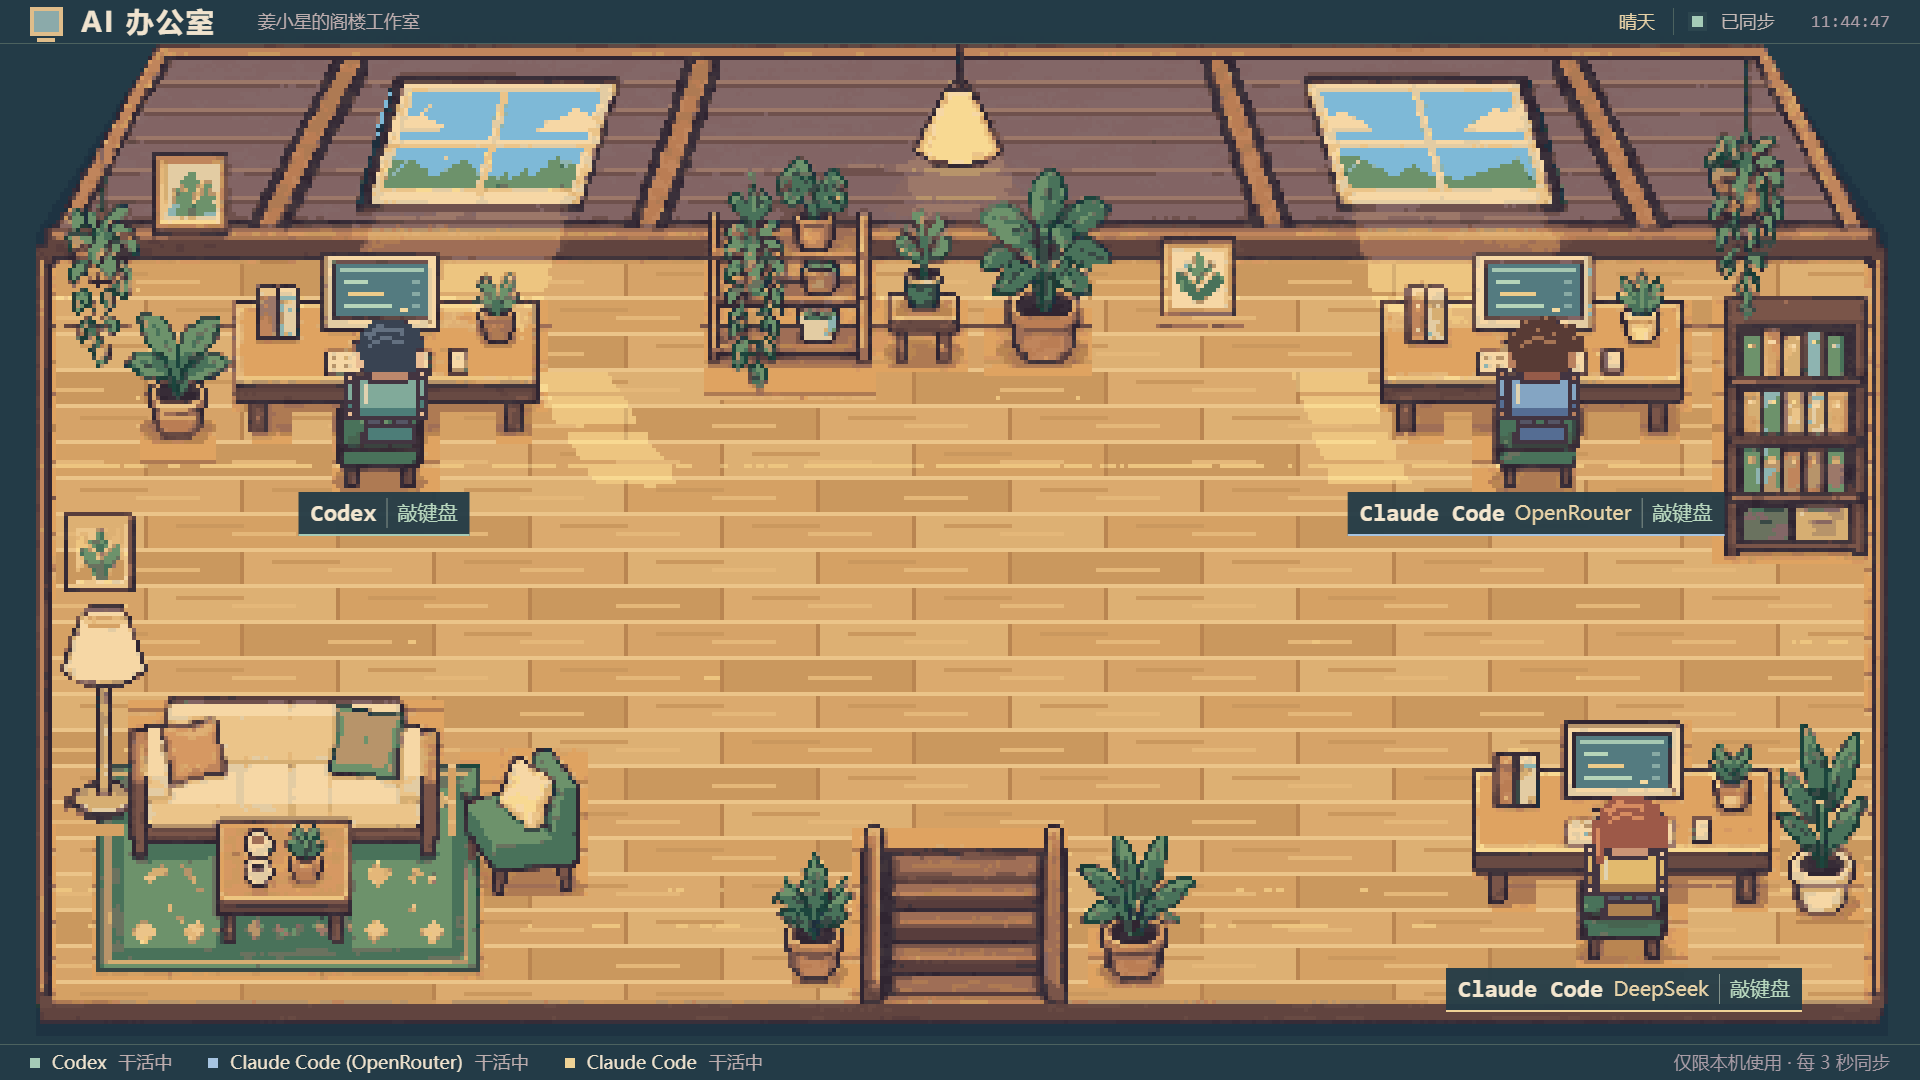
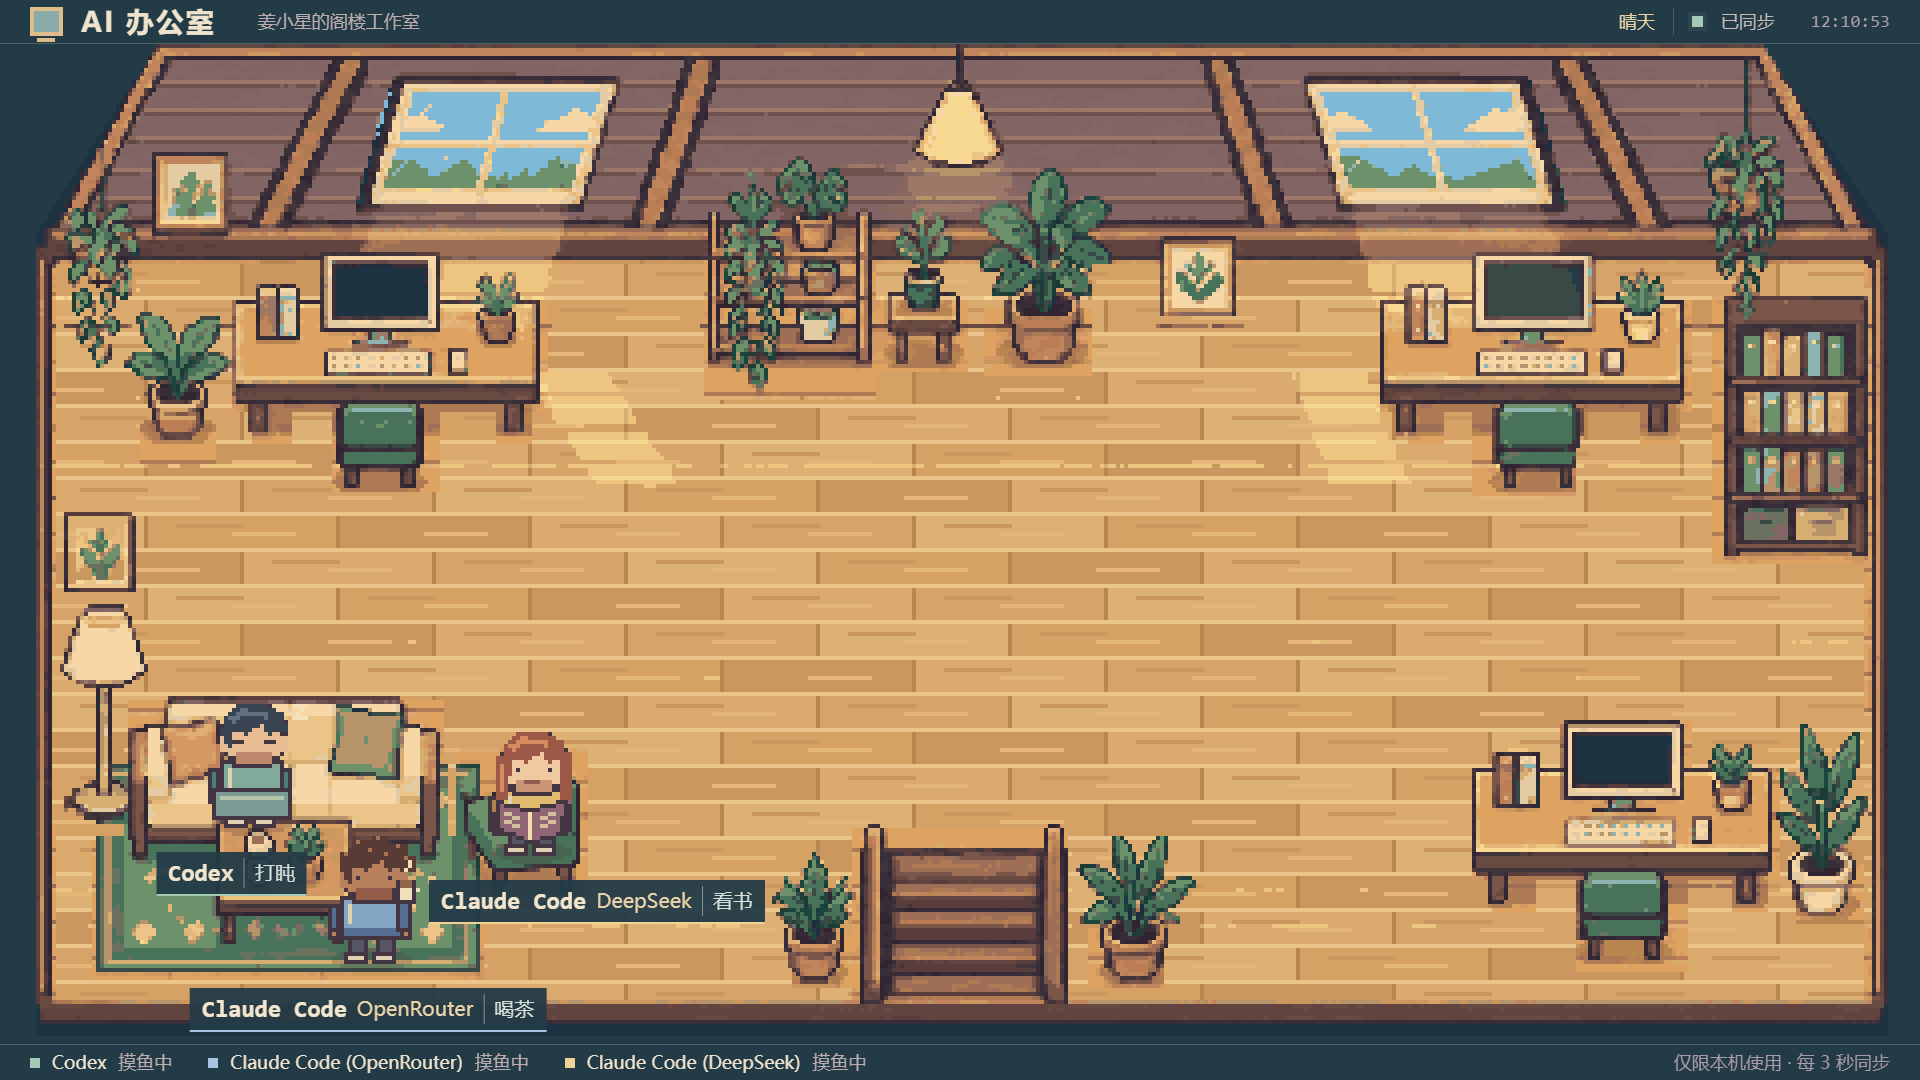
支持按工具配置自动生成六人工位与角色
由状态接口动态分配人物、工位和标签，保留原三人位置与外观，支持六套动画并为超限工具提供底栏状态。补充真实配置重启截图、动态容量与小屏验收，延长冷启动状态请求等待时间并更新添加工具说明。

diff --git a/static/office.js b/static/office.js
@@ -9,16 +9,13 @@
   const wrap = document.getElementById('wrap');
   const labels = document.getElementById('labels');
   const notice = document.getElementById('notice');
-  const DESKS = [
-    { id: 'codex', name: 'Codex', sprite: 'moss', color: '#a5cbb7' },
-    { id: 'openrouter', name: 'Claude Code', subtitle: 'OpenRouter', rosterName: 'Claude Code (OpenRouter)', sprite: 'sky', color: '#a6c4e1' },
-    { id: 'claude-code', name: 'Claude Code', subtitle: 'DeepSeek', sprite: 'sun', color: '#efd296' },
-  ];
+  // Geometry is capacity, not a tool list. Existing tools retain their original seats/looks.
+  const HOMES = { codex: 0, openrouter: 1, 'claude-code': 2 };
+  const CAPACITY = 6, IDLE_SLOTS = [0, 2, 4, 1, 3, 5];
+  const COLORS = ['#a5cbb7', '#a6c4e1', '#efd296', '#b39ac4', '#c5838b', '#9cb47a'];
   const ACTIVITIES = { sleep: '打盹', read: '看书', tea: '喝茶', type: '敲键盘', walk: '走动' };
-  const actors = DESKS.map((d, i) => ({ ...d, index: i, x: 0, y: 0, mode: 'idle', dir: 0,
-    requested: null, route: [], distance: 0, frame: 0, phase: i * 1.3,
-    idleSlot: i * 2, idleTime: 14 + i * 2, idleChanges: 0,
-  }));
+  const actors = [];
+  let tools = [], residents = [], overflowNotice = '';
   const ROOM = { w: 480, h: 270 };
   let atlas, background, metadata, scene, weather, layout, initialized = false, lastTime = 0, clock = 0;
   let latest = null, polls = 0, connected = false, polling = false;
@@ -32,14 +29,20 @@
   }
   function roomLayout() {
     // Chairs, monitor interiors and obstacles are measured on attic-bg-2.png / 4.
-    // All furniture is already baked into the approved image: never draw it twice.
+    // The first three stations are baked in; only occupied extra stations are drawn.
+    const slots = [
+      { seat: { x: 96, y: 118 }, screen: { x: 84, y: 66, w: 23, h: 13 } },
+      { seat: { x: 384, y: 118 }, screen: { x: 372, y: 66, w: 23, h: 13 } },
+      { seat: { x: 406, y: 237 }, screen: { x: 394, y: 184, w: 23, h: 13 } },
+      ...[176, 260, 344].map(x => ({ seat: { x, y: 179 },
+        screen: { x: x - 11, y: 126, w: 23, h: 13 },
+        furniture: { x: x - 39, y: 122, w: 78, h: 62 },
+        block: { x: x - 39, y: 133, w: 78, h: 34 } })),
+    ];
+    const desks = actors.map(a => ({ ...slots[a.slot], id: a.id, slot: a.slot }));
     return {
       ...ROOM,
-      desks: [
-        { id: 'codex', seat: { x: 96, y: 118 }, screen: { x: 84, y: 66, w: 23, h: 13 } },
-        { id: 'openrouter', seat: { x: 384, y: 118 }, screen: { x: 372, y: 66, w: 23, h: 13 } },
-        { id: 'claude-code', seat: { x: 406, y: 237 }, screen: { x: 394, y: 184, w: 23, h: 13 } },
-      ],
+      desks,
       blocks: [
         { x: 58, y: 77, w: 77, h: 27 },
         { x: 345, y: 77, w: 77, h: 27 },
@@ -52,11 +55,14 @@
         { x: 217, y: 219, w: 49, h: 35 },
         { x: 274, y: 230, w: 20, h: 15 },
         { x: 446, y: 207, w: 20, h: 22 },
+        ...desks.filter(d => d.block).map(d => d.block),
       ],
       spots: [
-        { x: 62, y: 208, action: 'sleep' }, { x: 94, y: 208, action: 'sleep' },
+        { x: 62, y: 208, action: 'sleep' }, { x: 94, y: 202, action: 'sleep' },
         { x: 92, y: 242, action: 'tea' }, { x: 174, y: 225, action: 'tea' },
         { x: 132, y: 215, action: 'read' }, { x: 184, y: 184, action: 'read' },
+        { x: 310, y: 244, action: 'read' }, { x: 350, y: 210, action: 'tea' },
+        { x: 42, y: 148, action: 'tea' },
       ],
     };
   }
@@ -65,7 +71,43 @@
     const c=scene.getContext('2d');c.imageSmoothingEnabled=false;
     // The supplied PNG is an exact 4x nearest-neighbor enlargement of this grid.
     c.drawImage(background,0,0,ROOM.w,ROOM.h);
+    for(const d of layout.desks)if(d.furniture) {
+      sprite('chair',d.seat.x-13,d.seat.y-22,c);
+      sprite('desk',d.furniture.x,d.furniture.y,c);
+    }
     weather=AtticWeather.create(scene);
+  }
+  function syncTools(incoming) {
+    tools=incoming.map(t=>({...t}));
+    const visible=tools.slice(0,CAPACITY),used=new Set();
+    // Reserve resident identities before assigning new tools, even if config is reordered.
+    const slots=new Map(visible.filter(t=>Object.hasOwn(HOMES,t.id)).map(t=>[t.id,HOMES[t.id]]));
+    slots.forEach(slot=>used.add(slot));
+    for(const t of visible)if(!slots.has(t.id)) {
+      const slot=Array.from({length:CAPACITY},(_,i)=>i).find(i=>!used.has(i));
+      slots.set(t.id,slot);used.add(slot);
+    }
+    const signature=visible.map(t=>JSON.stringify([t.id,t.name,slots.get(t.id)])).join('|');
+    if(signature!==actors.signature) {
+      const previous=new Map(actors.map(a=>[a.id,a]));
+      actors.splice(0,actors.length,...visible.map((t,index)=>{
+        const slot=slots.get(t.id),look=residents[slot],old=previous.get(t.id);
+        const parts=(t.name||t.id).match(/^(.*?)\s*[（(]([^()（）]+)[）)]$/);
+        const identity={id:t.id,name:parts?parts[1]:(t.name||t.id),subtitle:parts?.[2],
+          rosterName:t.name||t.id,index,slot,sprite:look.id,color:COLORS[slot]};
+        if(old?.slot===slot)return Object.assign(old,identity);
+        return {...identity,x:0,y:0,mode:'idle',dir:0,requested:null,route:[],distance:0,frame:0,
+          phase:slot*1.3,idleSlot:IDLE_SLOTS[slot],idleTime:14+slot*2,idleChanges:0};
+      }));
+      actors.signature=signature;layout={...layout,...roomLayout()};buildScene();
+      for(const a of actors)if(a.requested===null) {
+        const p=nearestFree(destination(a));a.x=p.x;a.y=p.y;
+      }
+      createLabels();
+    }
+    const excess=tools.slice(CAPACITY).map(t=>t.id).join(',');
+    if(excess&&excess!==overflowNotice)console.warn(`AI 办公室最多显示 ${CAPACITY} 人；其余工具仅在底栏显示：${excess}`);
+    overflowNotice=excess;
   }
   function walkable(x,y) {
     // Routes may run along a solid edge; discard floating-point movement noise.
@@ -114,7 +156,9 @@
   }
   function chooseLeisure(a) {
     const taken=new Set(actors.filter(other=>other!==a&&other.requested==='idle').map(other=>other.idleSlot));
-    const choices=layout.spots.map((p,i)=>({p,i})).filter(({p,i})=>!taken.has(i)&&p.action!==layout.spots[a.idleSlot].action&&walkable(p.x,p.y));
+    const choices=layout.spots.map((p,i)=>({p,i})).filter(({p,i})=>!taken.has(i)&&p.action!==layout.spots[a.idleSlot].action&&walkable(p.x,p.y)&&
+      !actors.some(other=>other!==a&&other.requested==='idle'&&
+        Math.abs(p.x-layout.spots[other.idleSlot].x)<28&&Math.abs(p.y-layout.spots[other.idleSlot].y)<38));
     if(!choices.length){a.idleTime=4;return;}
     a.idleSlot=choices[Math.floor(Math.random()*choices.length)].i;a.idleChanges++;
     go(a,destination(a),destination(a).action);
@@ -195,9 +239,11 @@
       const clampX=x=>Math.max(6,Math.min(ww-p.w-6,x));
       const x=clampX(p.cx-p.w/2);
       const desired=Math.min(bottom-p.h,p.y);
-      const obstacles=[...bodies,...placed];
-      const ys=[desired,...bodies.flatMap(q=>[q.y+q.h+6,q.y-p.h-6]),
-        ...placed.flatMap(q=>[q.y+q.h+6,q.y-p.h-6])];
+      const furniture=layout.desks.filter(d=>d.furniture).map(d=>({
+        x:layout.ox+d.furniture.x*scale,y:layout.oy+d.furniture.y*scale,
+        w:d.furniture.w*scale,h:d.furniture.h*scale}));
+      const obstacles=[...bodies,...furniture,...placed];
+      const ys=[desired,...obstacles.flatMap(q=>[q.y+q.h+6,q.y-p.h-6])];
       const xs=[x,...obstacles.flatMap(q=>[clampX(q.x-p.w-6),clampX(q.x+q.w+6)])];
       const free=xs.flatMap(x=>ys.map(y=>({x,y,w:p.w,h:p.h}))).filter(r=>r.y>=top&&r.y+r.h<=bottom&&
         !obstacles.some(q=>overlaps(r,q)));
@@ -227,8 +273,10 @@
     updateLabels();requestAnimationFrame(render);
   }
   function createLabels() {
+    labels.replaceChildren();
     for(const a of actors) {
       const el=document.createElement('div');el.className='nameplate';el.style.setProperty('--agent-color',a.color);
+      el.title=a.rosterName;
       const name=document.createElement('strong');name.textContent=a.name;
       el.append(name);
       if(a.subtitle){const sub=document.createElement('small');sub.textContent=a.subtitle;el.append(sub);}
@@ -236,23 +284,30 @@
     }
   }
   function updateRoster() {
-    const roster=document.getElementById('roster');roster.replaceChildren();
-    for(const a of actors) {
-      const el=document.createElement('span');el.className='agent-status';el.style.setProperty('--agent-color',a.color);
+    const roster=document.getElementById('roster'),scroll=roster.scrollLeft;roster.replaceChildren();
+    roster.classList.toggle('many-tools',tools.length>3);
+    for(const [i,t] of tools.entries()) {
+      const a=actors.find(a=>a.id===t.id),color=a?.color||residents[i%residents.length].shirt;
+      const el=document.createElement('span');el.className='agent-status';
       const dot=document.createElement('i'),name=document.createElement('span'),state=document.createElement('em');
-      name.textContent=a.rosterName||a.name;state.textContent=a.requested===null?'连接中':a.requested==='working'?'干活中':'摸鱼中';
+      el.style.setProperty('--agent-color',color);
+      name.textContent=t.name||t.id;state.textContent=t.status==='working'?'干活中':'摸鱼中';
       el.append(dot,name,state);roster.append(el);
     }
-    canvas.setAttribute('aria-label',`${weather?.snapshot().name||''}阁楼；`+actors.map(a=>`${a.name}${a.subtitle||''}：${a.requested==='working'?'干活中':'摸鱼中'}`).join('；'));
+    roster.scrollLeft=scroll;
+    canvas.setAttribute('aria-label',`${weather?.snapshot().name||''}阁楼；`+tools.map(t=>`${t.name||t.id}：${t.status==='working'?'干活中':'摸鱼中'}`).join('；'));
   }
   async function poll() {
     if(polling)return;polling=true;
     try {
-      const response=await fetch('api/status',{cache:'no-store',signal:AbortSignal.timeout(2500)});
+      // A cold Windows process snapshot can take several seconds after a restart.
+      // Keep one request in flight so short abort/retry cycles cannot pile up scans.
+      const response=await fetch('api/status',{cache:'no-store',signal:AbortSignal.timeout(15000)});
       if(!response.ok)throw new Error(`HTTP ${response.status}`);
       const data=await response.json();
       if(!Array.isArray(data.agents)||!Number.isFinite(data.ts))throw new Error('Invalid status response');
       latest=data;polls++;connected=true;
+      syncTools(data.agents);
       for(const a of actors) {
         const status=data.agents.find(s=>s.id===a.id)?.status;
         if(status!=='working'&&status!=='idle')continue;
@@ -273,8 +328,8 @@
     snapshot:()=>({ready:initialized,connected,polls,clock,zoom:layout?.zoom,width:layout?.w,height:layout?.h,
       sample:layout?.sample,pixelScale:layout?.pixelScale,ox:layout?.ox,oy:layout?.oy,
       background:background?.getAttribute('src'),smoothing:ctx.imageSmoothingEnabled,
-      weather:weather?.snapshot(),
-      actors:actors.map(a=>({id:a.id,x:a.x,y:a.y,mode:a.mode,frame:a.frame,dir:a.dir,requested:a.requested,
+      weather:weather?.snapshot(),capacity:CAPACITY,tools:tools.map(t=>({...t})),
+      actors:actors.map(a=>({id:a.id,name:a.name,sprite:a.sprite,slot:a.slot,x:a.x,y:a.y,mode:a.mode,frame:a.frame,dir:a.dir,requested:a.requested,
         idleSlot:a.idleSlot,idleChanges:a.idleChanges,route:a.route.map(p=>({...p})),
         target:initialized?destination(a):null,walkable:initialized?walkable(a.x,a.y):false,
         monitorOn:a.mode==='type'&&a.requested==='working'})),
@@ -286,9 +341,11 @@
     try {
       const image=new Image();image.src='static/assets/office-atlas.png';
       const room=new Image();room.src='static/assets/attic-bg-2.png';
-      const [,,data]=await Promise.all([image.decode(),room.decode(),fetch('static/assets/office-atlas.json').then(r=>{if(!r.ok)throw new Error('Atlas missing');return r.json();})]);
-      atlas=image;background=room;metadata=data;createLabels();fit();updateRoster();document.getElementById('loading').hidden=true;
-      requestAnimationFrame(render);poll();setInterval(poll,3000);new ResizeObserver(fit).observe(wrap);
+      const json=url=>fetch(url).then(r=>{if(!r.ok)throw new Error(`Missing ${url}`);return r.json();});
+      const [,,data,looks]=await Promise.all([image.decode(),room.decode(),json('static/assets/office-atlas.json'),json('static/assets/residents.json')]);
+      atlas=image;background=room;metadata=data;residents=looks;fit();
+      await poll();updateRoster();document.getElementById('loading').hidden=true;
+      requestAnimationFrame(render);setInterval(poll,3000);new ResizeObserver(fit).observe(wrap);
       document.addEventListener('visibilitychange',()=>{lastTime=0;if(!document.hidden){weather.update();poll();}});
     } catch(error) {document.getElementById('loading').textContent='素材加载失败，请刷新页面';console.error(error);}
   }

diff --git a/static/office.css b/static/office.css
@@ -17,25 +17,26 @@ h1 { margin: 0; font-size: 28px; line-height: 36px; font-weight: 700; white-spac
 #wrap { position: absolute; inset: 0; min-height: 0; overflow: hidden; background: #233b47; }
 #game { display: block; image-rendering: pixelated; image-rendering: crisp-edges; position: absolute; }
 #labels { position: absolute; inset: 0; pointer-events: none; }
-.nameplate { position: absolute; transform: translateX(-50%); display: flex; align-items: center; gap: 10px; padding: 6px 12px; color: #f3e6cf; font-size: 22px; line-height: 30px; white-space: nowrap; background: #233b47f2; border-bottom: 2px solid var(--agent-color); }
+.nameplate { position: absolute; transform: translateX(-50%); display: flex; align-items: center; gap: 10px; padding: 6px 12px; max-width: calc(100% - 12px); color: #f3e6cf; font-size: 22px; line-height: 30px; white-space: nowrap; background: #233b47f2; border-bottom: 2px solid var(--agent-color); }
+.nameplate strong, .nameplate small { min-width: 0; overflow: hidden; text-overflow: ellipsis; }
 .nameplate strong { font-family: Consolas, 'Microsoft YaHei', monospace; font-size: 24px; }
 .nameplate small { color: #e7d2a7; font-size: 20px; }
-.nameplate span { font-size: 20px; color: #d5dfd9; padding-left: 10px; border-left: 1px solid #84938b; }
+.nameplate span { font-size: 20px; color: #d5dfd9; padding-left: 10px; border-left: 1px solid #84938b; flex-shrink: 0; }
 .nameplate.working span { color: #b8d7be; }
 #loading, #notice { position: absolute; left: 50%; transform: translateX(-50%); padding: 10px 16px; background: #3b3445; border: 1px solid #b39b7b; font-size: 12px; z-index: 2; }
 #loading { top: 44%; }
 #notice { bottom: 48px; max-width: calc(100% - 24px); color: #f3cb9f; text-align: center; }
 [hidden] { display: none !important; }
 #footer { position: absolute; inset: auto 0 0; min-height: 36px; z-index: 2; display: flex; align-items: center; justify-content: space-between; padding: 0 30px; gap: 18px; background: #233b47f2; border-top: 1px solid #4c625f; }
-#roster { display: flex; gap: 36px; min-width: 0; }
-.agent-status { display: inline-flex; gap: 12px; align-items: center; font-size: 18px; line-height: 1.5; white-space: nowrap; }
+#roster { display: flex; gap: 36px; min-width: 0; overflow-x: auto; scrollbar-width: thin; }
+.agent-status { display: inline-flex; flex-shrink: 0; gap: 12px; align-items: center; font-size: 18px; line-height: 1.5; white-space: nowrap; }
 .agent-status i { width: 10px; height: 10px; flex-shrink: 0; background: var(--agent-color); }
 .agent-status em { font-style: normal; color: #bdadae; font-size: 18px; }
-.local { color: #a99ca6; font-size: 18px; line-height: 1.5; white-space: nowrap; }
+.local { color: #a99ca6; font-size: 18px; line-height: 1.5; white-space: nowrap; flex-shrink: 0; }
 @media (max-width: 1100px) {
-  body { display: grid; grid-template-rows: auto minmax(0, 1fr) auto; }
-  #bar, #footer { position: relative; inset: auto; flex-wrap: wrap; padding: 6px 16px; gap: 8px 12px; }
-  #wrap { position: relative; inset: auto; }
+  body { display: grid; grid-template-columns: minmax(0, 1fr); grid-template-rows: auto minmax(0, 1fr) auto; }
+  #bar, #footer { position: relative; inset: auto; min-width: 0; flex-wrap: wrap; padding: 6px 16px; gap: 8px 12px; }
+  #wrap { position: relative; inset: auto; min-width: 0; }
   #notice { bottom: 12px; }
   .identity { flex-wrap: wrap; gap: 12px; }
   .owner { margin-left: 0; }
@@ -45,6 +46,8 @@ h1 { margin: 0; font-size: 28px; line-height: 36px; font-weight: 700; white-spac
   #roster { flex-wrap: wrap; gap: 8px 24px; }
   .local { white-space: normal; }
 }
+#roster.many-tools { flex-wrap: nowrap; max-width: 100%; }
+#roster.many-tools .agent-status { flex-wrap: nowrap; max-width: none; }
 @media (max-width: 700px) {
   .identity { display: grid; grid-template-columns: 33px auto; gap: 8px 12px; }
   .owner { grid-column: 1 / -1; }

diff --git a/tests/verify_screenshots.py b/tests/verify_screenshots.py
@@ -1,11 +1,12 @@
 from pathlib import Path
 from PIL import Image
 import json
+import sys
 root = Path(__file__).resolve().parents[1]
-for name in ('attic-idle.png', 'attic-work.png', 'attic-weather.png'):
+for name in sys.argv[1:] or ('attic-idle.png', 'attic-work.png', 'attic-weather.png'):
     im = Image.open(root / 'preview' / name).convert('RGB')
     assert im.size == (1920, 1080), im.size
-    # Run verify-labels.cjs first to capture the HTML overlay bounds for each image.
+    # Run the matching browser capture first to record each image's HTML overlay bounds.
     masks = json.loads((root / '.browser-tmp' / f'{Path(name).stem}-masks.json').read_text())
     # The room fills 1920x1080 at 4x, starting at (0, 0). HTML text is separate.
     # Every unobscured 4x4 block must be one source pixel, without smoothing.
